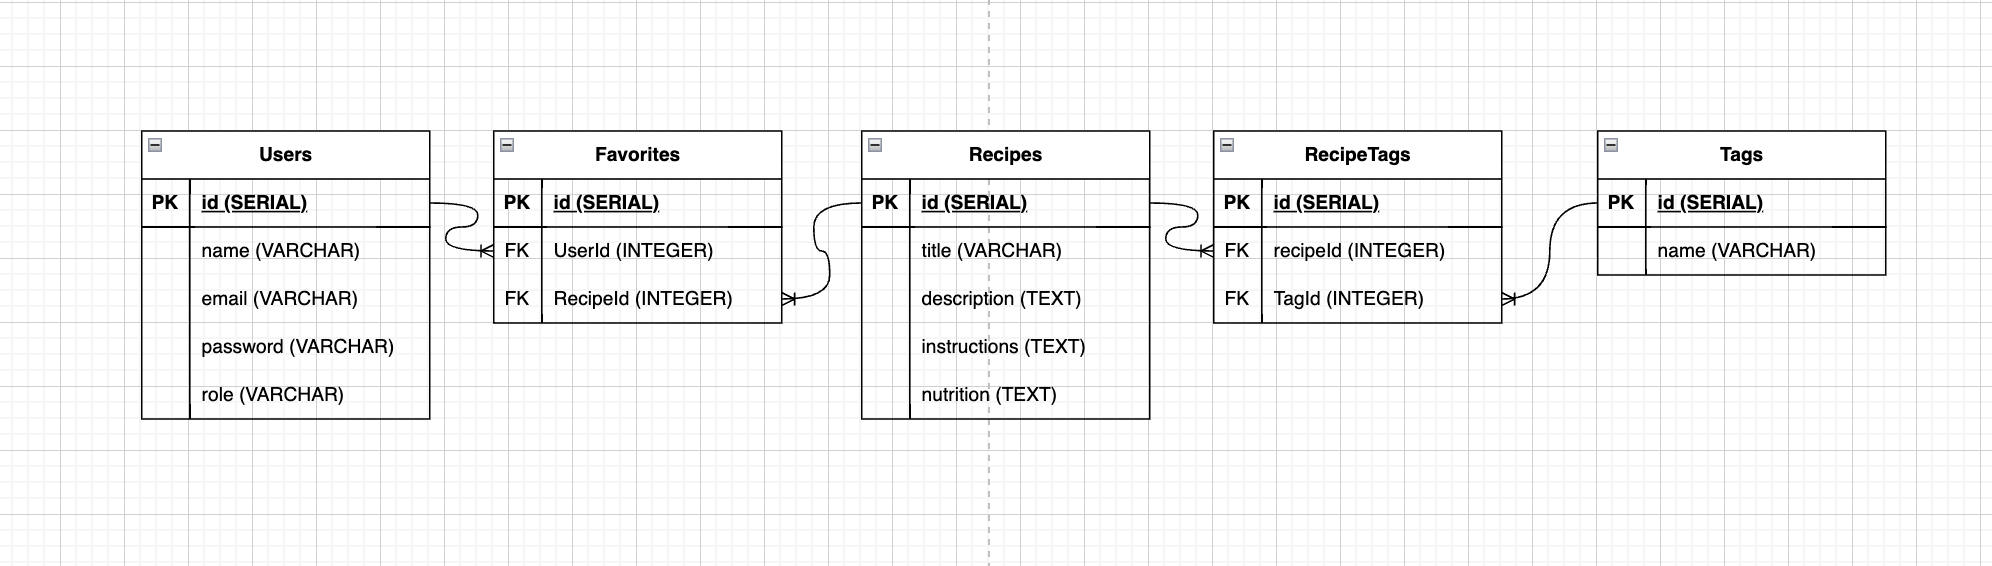
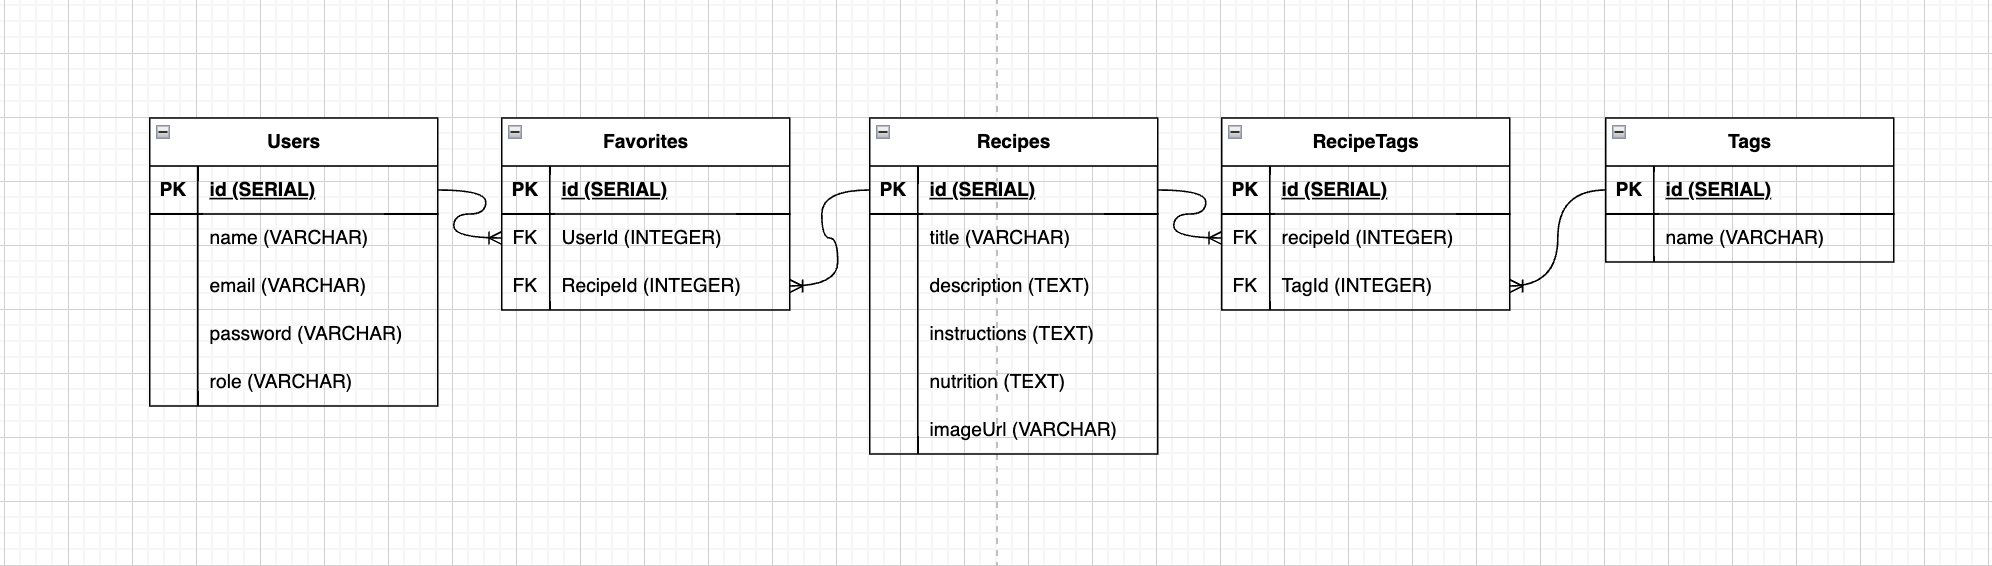
chore:add migration to add image column for Recipes, create authentication

Changed region(s): [[0.0, 0.0, 1.0, 1.0], [0.4669, 0.871, 0.5291, 0.9011], [0.4669, 0.0, 0.5291, 0.03]]

diff --git a/middlewares/authentication.js b/middlewares/authentication.js
@@ -1,0 +1,24 @@
+const { verifyToken } = require("../helpers/jwt");
+const { User } = require("../models");
+
+async function authentication(req,res,next){
+    try {
+        const access_token = req.headers.authorization;
+        if(!access_token || access_token.split(" ").length != 2) throw {name: 'Unauthenticated', message: 'Access token required'};
+
+        const[bearer, token] = access_token.split(" ");
+        if(bearer != 'Bearer') throw {name:'Unauthorized', message: 'Invalid token'};
+        const payload = verifyToken(token);
+        const userFound = await User.findOne({where: {email: payload.email}});
+        if (!userFound) throw {name: 'Forbidden Error', message:'You are forbidden'};
+        req.user = {
+            id: userFound.id,
+            role: userFound.role
+        }
+        next();
+    } catch (err){
+        next(err);
+    }
+}
+
+module.exports = authentication;

diff --git a/migrations/20241001195154-add-image-to-recipe.js b/migrations/20241001195154-add-image-to-recipe.js
@@ -1,0 +1,27 @@
+'use strict';
+
+/** @type {import('sequelize-cli').Migration} */
+module.exports = {
+  async up (queryInterface, Sequelize) {
+    await queryInterface.addColumn('Recipes', 'imageUrl', {
+      type: Sequelize.STRING,
+      allowNull: false,
+    });
+    /**
+     * Add altering commands here.
+     *
+     * Example:
+     * await queryInterface.createTable('users', { id: Sequelize.INTEGER });
+     */
+  },
+
+  async down (queryInterface, Sequelize) {
+    await queryInterface.removeColumn('Recipes', 'imageUrl');
+    /**
+     * Add reverting commands here.
+     *
+     * Example:
+     * await queryInterface.dropTable('users');
+     */
+  }
+};

diff --git a/middlewares/authorization.js b/middlewares/authorization.js
@@ -1,0 +1,14 @@
+const { Favorite } = require("../models");
+
+async function authorization(req,res,next){
+    try{
+        const recipeFound = await Recipe.findOne({});
+        if (!recipeFound) throw {name:"Not Found", message:"The recipe is not found"};
+
+        // * TODO: have to go back again later
+    } catch (err){
+        next(err);
+    }
+}
+
+module.exports = authorization;

diff --git a/middlewares/errorHandler.js b/middlewares/errorHandler.js
@@ -5,6 +5,9 @@ function errorHandler(err,req,res,next){
     if (err.name == 'Bad Request'){
         return res.status(400).json({message: err.message});
     }
+    if (err.name == 'Unauthenticated'){
+        return res.status(401).json({message: err.message});
+    }
     if (err.name == 'Unauthorized'){
         return res.status(401).json({message: err.message});
     }

diff --git a/controllers/RecipeController.js b/controllers/RecipeController.js
@@ -1,5 +1,11 @@
 class RecipeController{
+    static async showRecipes(req,res,next){
+        try{
 
+        } catch (err){
+            next(err);
+        }
+    }
 }
 
 module.exports = RecipeController;
